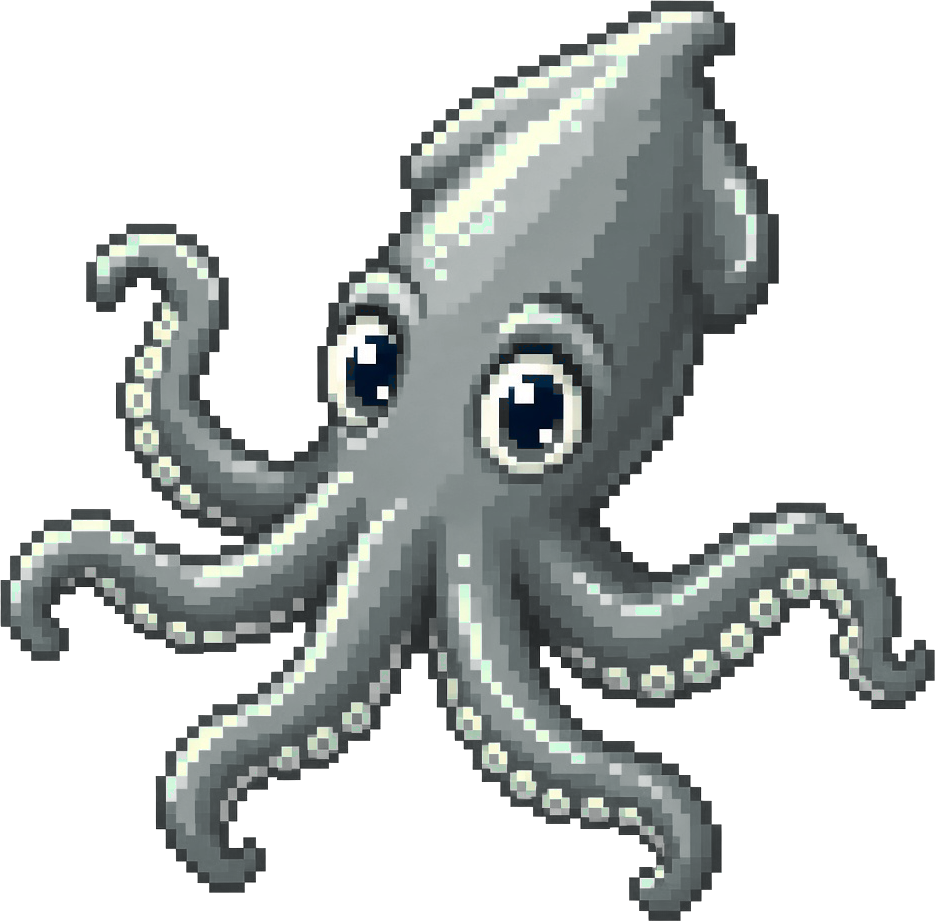
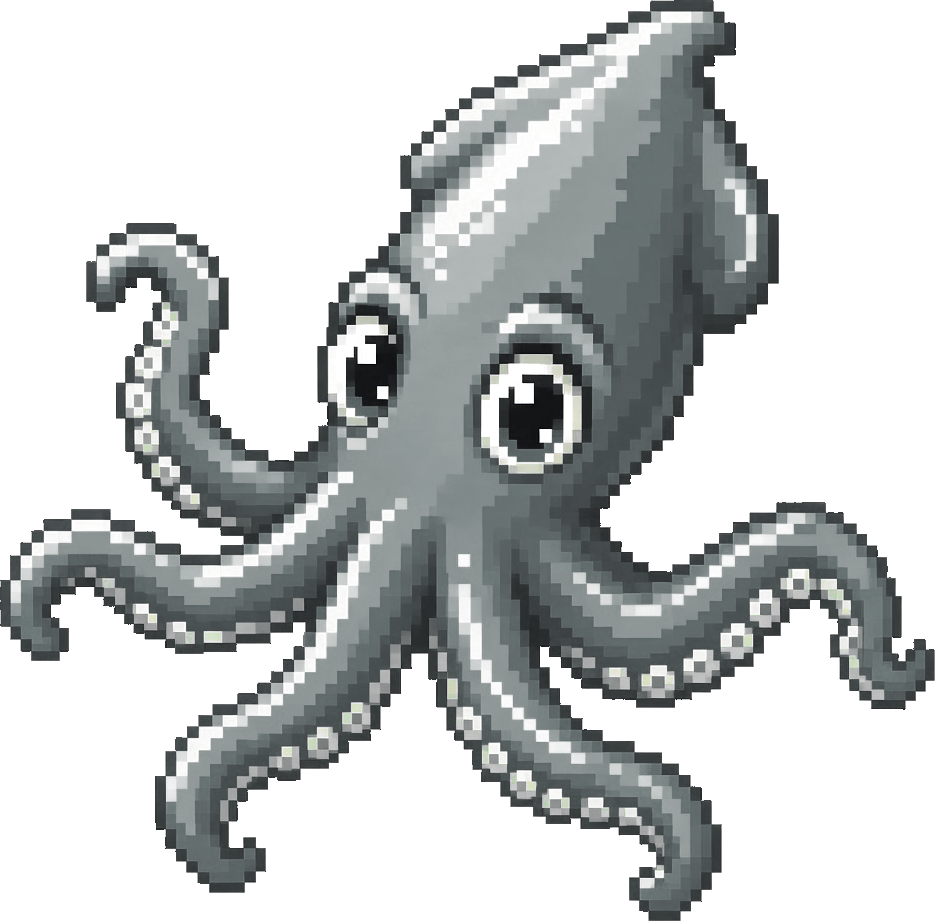
Remove white matte fringe from the squid and its variants
scripts/defringe.mjs clears sub-50% alpha edge pixels and snaps the rest to
the nearest solid neighbour colour, so the silhouette is hard with no pale
rim on dark plates. recolor.mjs now also remaps tinted near-white
highlights, which removed the mint specks in the gold squid.

diff --git a/README.md b/README.md
@@ -21,6 +21,7 @@ plate `#0F3D8A`, no glow. Together they are the CCLU app icon.
 | `scripts/compose.mjs`      | Composites a character onto a background into `out/`.  |
 | `scripts/generate.mjs`     | Builds the collection: weighted draws, PNG + metadata. |
 | `scripts/recolor.mjs`      | Makes a colour variant of a character by hue remap.    |
+| `scripts/defringe.mjs`     | Removes white matte fringe, hardens a character's edge.|
 | `scripts/lib/compose.mjs`  | Shared renderer used by both scripts.                  |
 | `site/`                    | Home page: gallery, builder, layer info, collection.   |
 | `examples/`                | Reference renders checked in for the README.           |
@@ -83,6 +84,16 @@ the same collection. `--count` is capped at the number of unique combos.
 
 New layers (hats, eyes, held items) go in `order` bottom to top with
 `"fit": "contain"` and a `scale`.
+
+### Clean edges
+
+```sh
+node scripts/defringe.mjs <trait>   # drop faint edge pixels, snap the rest to a solid neighbour
+```
+
+Run this once on any character cut out from a white background; otherwise a
+pale rim shows on dark plates. Pixel art has no anti-aliasing, so the edge
+should be hard.
 
 ### Colour variants
 
